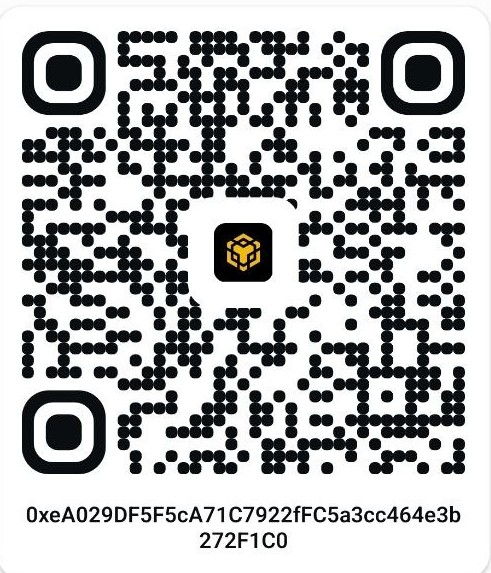
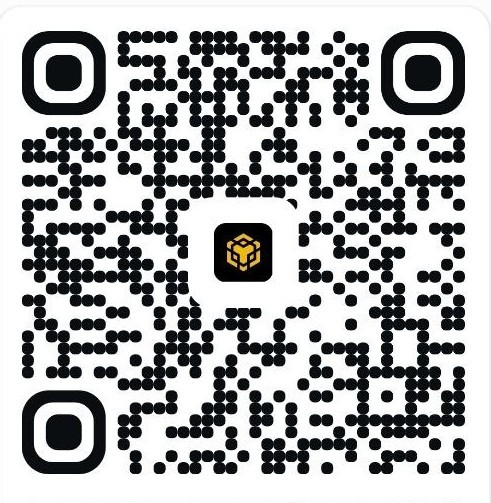
fix: opaque hover tooltip on Total Overview donut; update crypto QR codes
The donut's tooltip had no reliably opaque background, so its text
overlapped the chart segments and the center total label. Forced an
opaque background and higher z-index, matching the same fix already
applied to the Index Fund Allocation donut.

Also updates the BNB and TRON deposit QR code images.

diff --git a/client/src/components/dashboard/WalletOverview.tsx b/client/src/components/dashboard/WalletOverview.tsx
@@ -89,13 +89,15 @@ export function WalletOverview({
                     <Tooltip
                       {...tooltipStyles(theme)}
                       cursor={false}
+                      wrapperStyle={{ outline: "none", zIndex: 20 }}
+                      contentStyle={{ ...tooltipStyles(theme).contentStyle, backgroundColor: theme.tooltipBg, opacity: 1 }}
                       formatter={(value: unknown, name: unknown) => [formatMoney(Number(value)), String(name)] as [string, string]}
                     />
                   )}
                 </PieChart>
               </ResponsiveContainer>
 
-              <div className="pointer-events-none absolute inset-0 flex flex-col items-center justify-center">
+              <div className="pointer-events-none absolute inset-0 z-0 flex flex-col items-center justify-center">
                 <span className="text-eyebrow text-[0.625rem]">Total</span>
                 <span className="text-money mt-0.5 text-lg text-foreground">
                   {formatMoney(total)}
